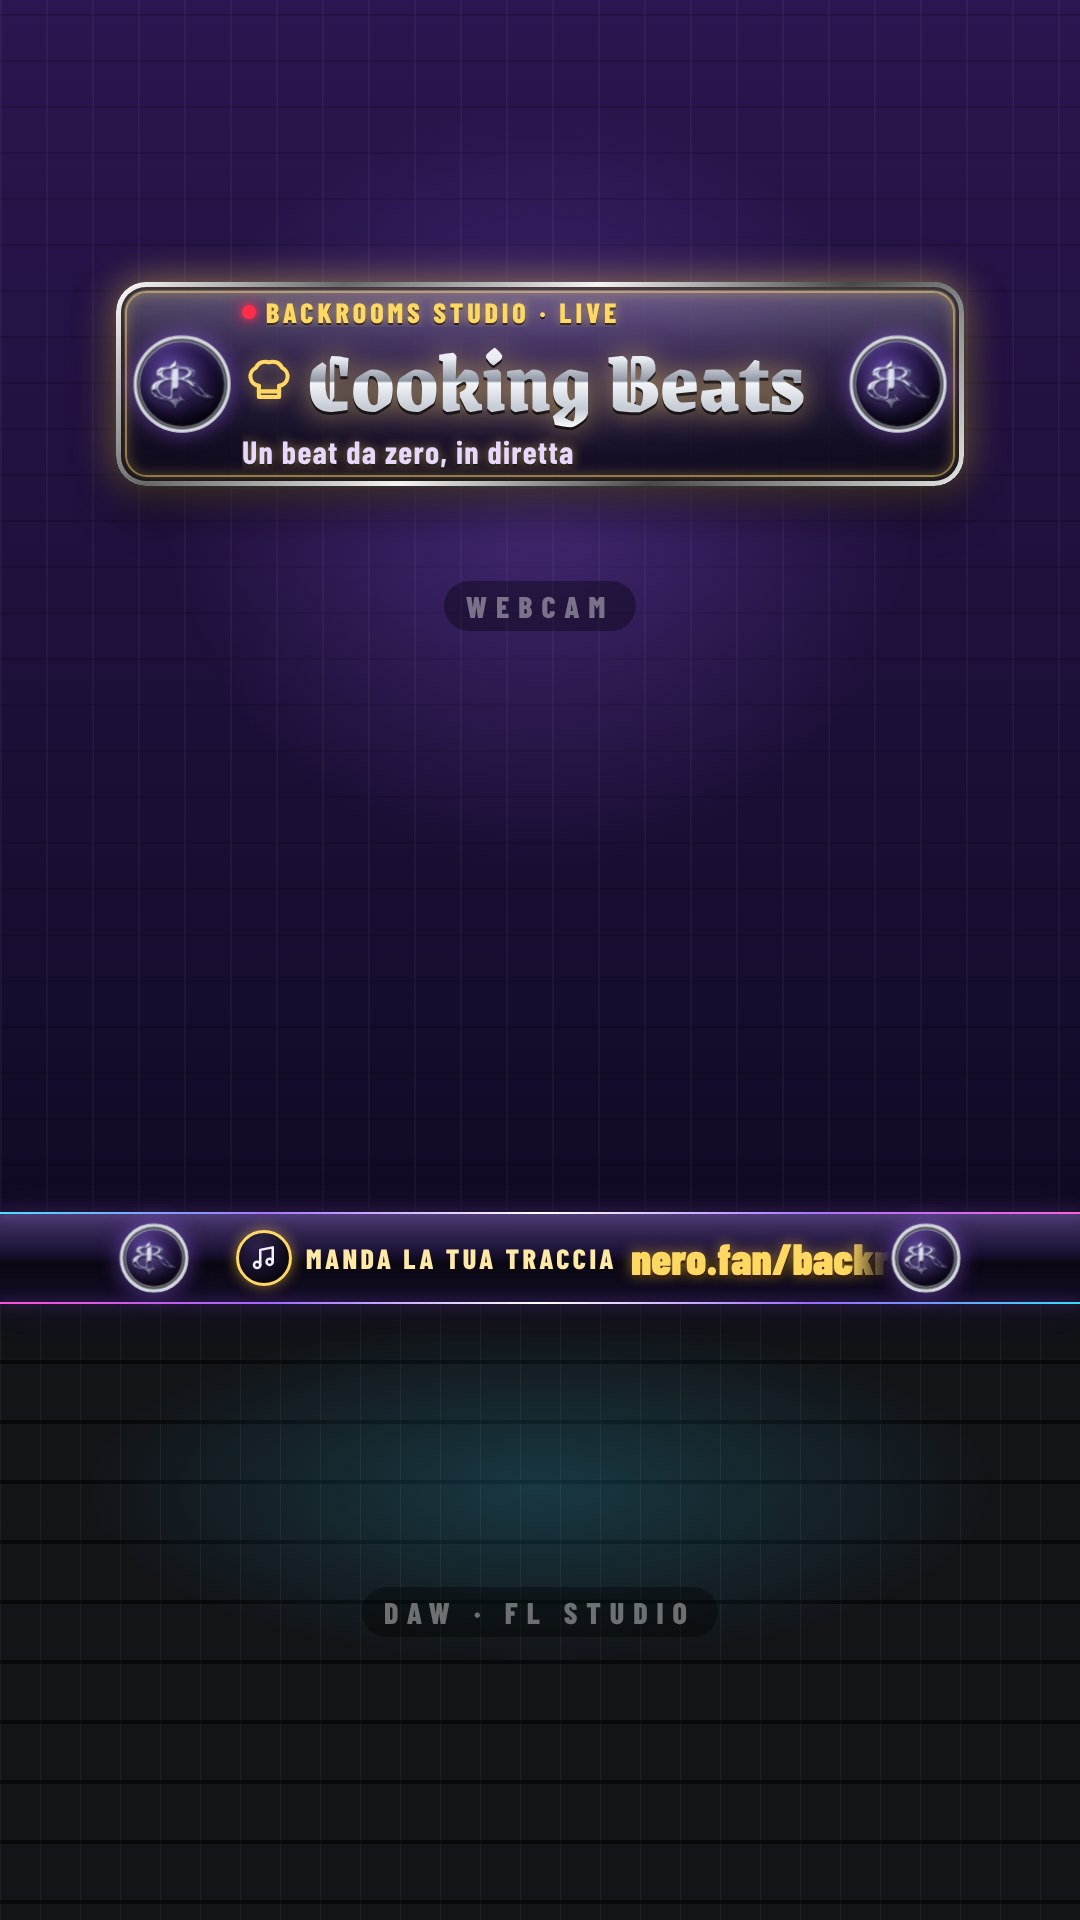
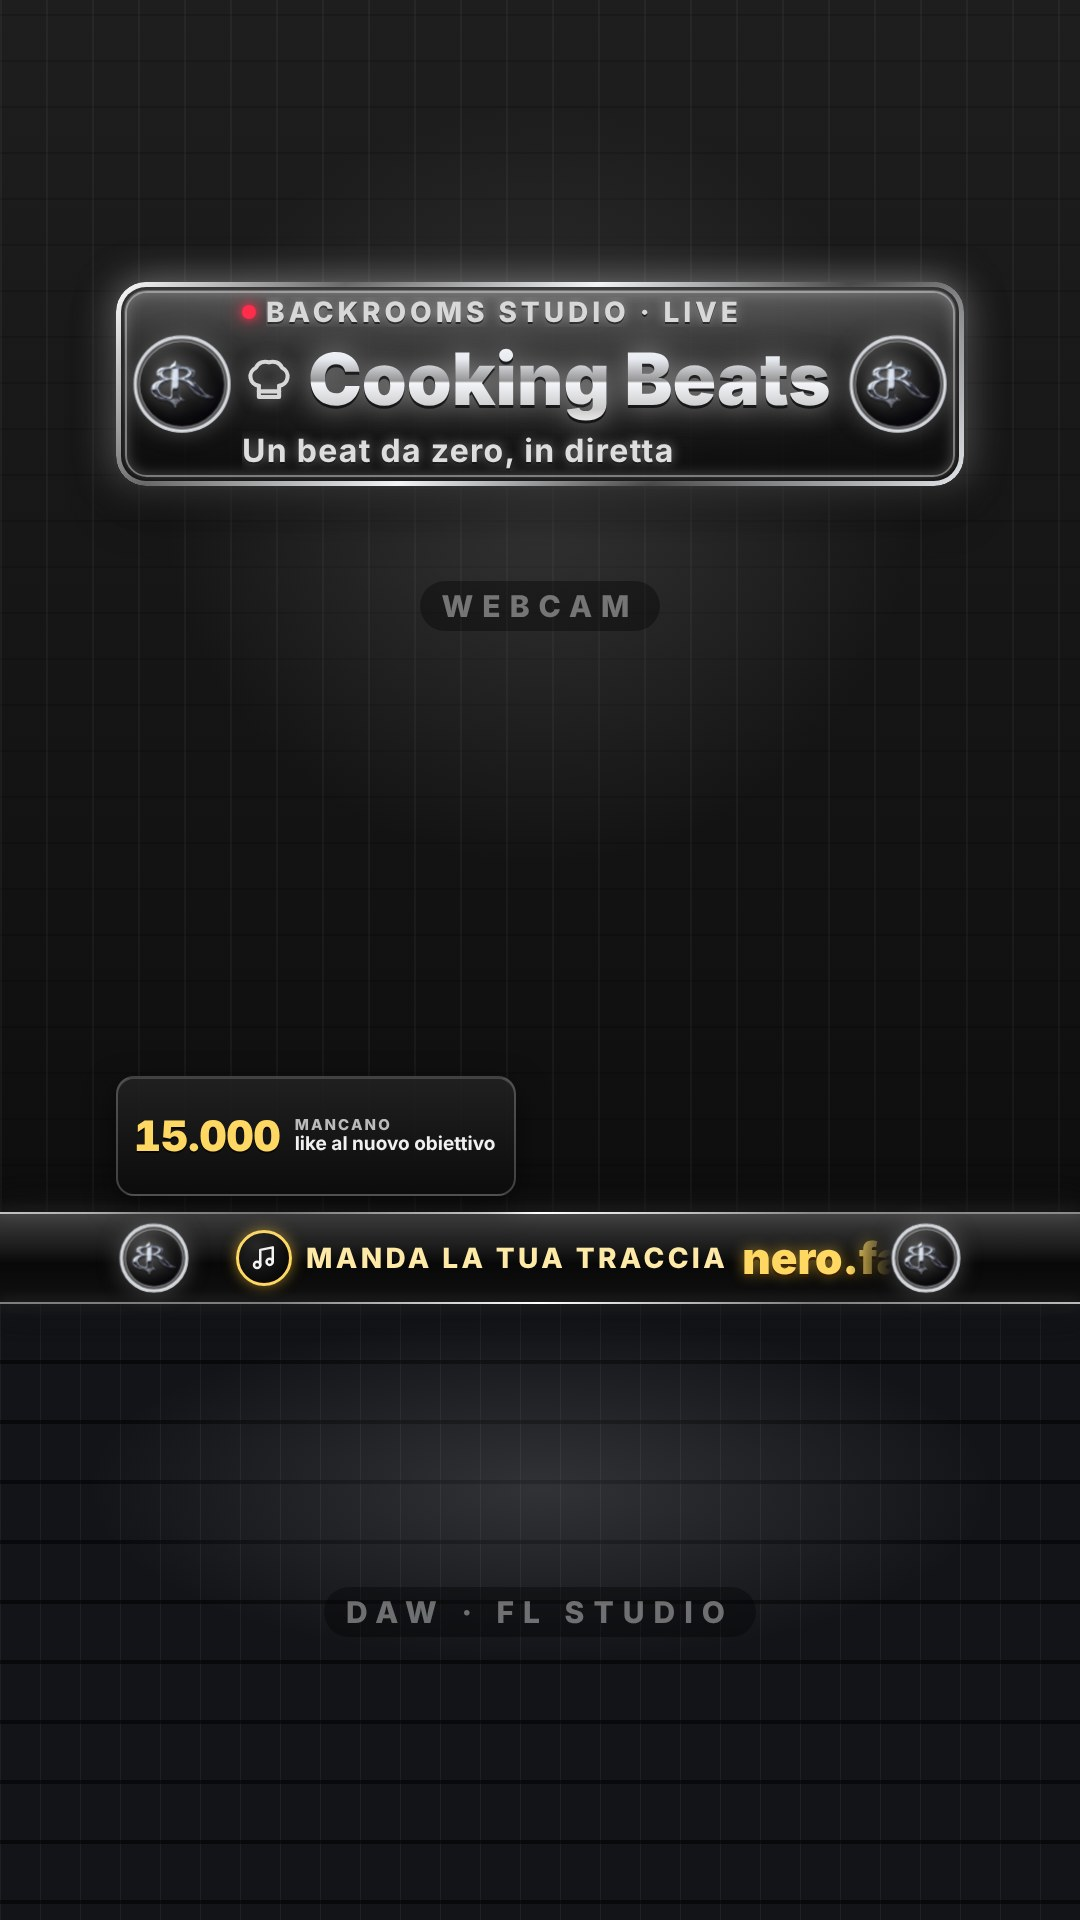
Goal: widget nei layout Drum, Studio Production, Podcast e Reaction [skip netlify]
Claude-Session: https://claude.ai/code/session_01KknJSv8vijv85bNpvfWr5a

diff --git a/overlay-live/public/js/goal-logica.js b/overlay-live/public/js/goal-logica.js
@@ -1,0 +1,76 @@
+// Goal Like e Follower: le parti pure (niente DOM) che usano la pagina e i test. Il calcolo dei «mancano» è lo stesso di lib/goal.mjs
+// (le pagine non importano da lib/): test/goal-logica.test.mjs li confronta.
+
+export const LARGHEZZA_GOAL = 400;
+export const ALTEZZA_GOAL = 120;
+
+// Un layout per pagina; per Podcast e Reaction anche l'orizzontale (la chiave finisce con «O»).
+export const POSIZIONI_GOAL = {
+  gara: { x: 564, y: 712, scala: 100 },
+  senzaPremio: { x: 116, y: 650, scala: 100 },
+  studio: { x: 116, y: 290, scala: 100 },
+  battle: { x: 116, y: 672, scala: 100 },
+  drum: { x: 116, y: 892, scala: 100 },
+  produzione: { x: 116, y: 1076, scala: 100 },
+  reaction: { x: 116, y: 1076, scala: 100 },
+  podcast: { x: 116, y: 960, scala: 100 },
+  podcastO: { x: 1400, y: 36, scala: 100 },
+  reactionO: { x: 1584, y: 40, scala: 75 },
+};
+
+export const chiaveGoal = (layout, orizzontale) => (orizzontale && (layout === "podcast" || layout === "reaction") ? `${layout}O` : layout);
+
+const migliaia = (n) => String(Math.round(n)).replace(/\B(?=(\d{3})+(?!\d))/g, ".");
+
+function obiettivoAttuale(totale, obiettivo, passo) {
+  const t = Number.isFinite(totale) && totale > 0 ? totale : 0;
+  if (t < obiettivo || !(passo > 0)) return obiettivo;
+  return t - (t % passo) + passo;
+}
+
+function mancano(totale, obiettivo, passo) {
+  if (typeof totale !== "number" || !Number.isFinite(totale) || totale < 0) return null;
+  const distanza = obiettivoAttuale(totale, obiettivo, passo) - totale;
+  return passo > 0 ? Math.max(1, distanza) : Math.max(0, distanza);
+}
+
+// Le parti di una riga: «Mancano» + «1.250» + «like» + «al nuovo obiettivo» (null con il totale sconosciuto).
+function parti(gruppo, unita) {
+  const n = mancano(gruppo?.totale, gruppo?.obiettivo, gruppo?.passo);
+  if (n === null) return null;
+  return { prefisso: n === 1 ? "Manca" : "Mancano", numero: migliaia(n), unita, suffisso: "al nuovo obiettivo" };
+}
+export const partiGoal = (goal) => ({ like: parti(goal?.like, "like"), follower: parti(goal?.follower, "follower") });
+
+const frase = (p) => (p ? `${p.prefisso} ${p.numero} ${p.unita} ${p.suffisso}` : null);
+export function testiGoal(goal) {
+  const p = partiGoal(goal);
+  return { like: frase(p.like), follower: frase(p.follower) };
+}
+
+// Dove sta il widget: la posizione salvata dalla regia (campo per campo) sopra quella di partenza, con la tela come limite.
+// Dà { x, y, scala } con la scala come moltiplicatore (1 = 100%).
+export function posizioneGoal(goal, chiave) {
+  const base = POSIZIONI_GOAL[chiave] ?? POSIZIONI_GOAL.gara;
+  const salvata = goal?.posizioni?.[chiave] ?? {};
+  const scegli = (campo) => (Number.isFinite(salvata[campo]) ? salvata[campo] : base[campo]);
+  const scala = Math.min(200, Math.max(60, scegli("scala"))) / 100;
+  const [W, H] = chiave.endsWith("O") ? [1920, 1080] : [1080, 1920];
+  const x = Math.min(Math.max(0, scegli("x")), W - LARGHEZZA_GOAL * scala);
+  const y = Math.min(Math.max(0, scegli("y")), H - ALTEZZA_GOAL * scala);
+  return { x, y, scala };
+}
+
+// Con il modo «comparsa» il Goal si vede `durataSecondi` dall'inizio dell'ultima comparsa (o da «Mostra ora» della regia); la
+// pagina fa partire una comparsa nuova ogni `ogniMinuti` (daFarComparire). Con «fisso» si vede finché è acceso.
+export function goalVisibile({ modo, durataSecondi }, acceso, ora, ultimaComparsaAlle, mostraOraAlle) {
+  if (!acceso) return false;
+  if (modo !== "comparsa") return true;
+  const inizio = Math.max(ultimaComparsaAlle ?? -Infinity, mostraOraAlle ?? -Infinity);
+  return ora - inizio < durataSecondi * 1000;
+}
+
+export function daFarComparire({ modo, ogniMinuti }, ora, ultimaComparsaAlle) {
+  if (modo !== "comparsa") return false;
+  return ultimaComparsaAlle === null || ora - ultimaComparsaAlle >= ogniMinuti * 60_000;
+}

diff --git a/overlay-live/public/js/goal.js b/overlay-live/public/js/goal.js
@@ -1,0 +1,80 @@
+// Widget Goal («Mancano 1.250 like al nuovo obiettivo» e «Mancano 12 follower al nuovo obiettivo»), uguale in tutti i layout:
+// una sezione di vetro 400×120 con due righe, messa sulla tela dalla posizione scelta in regia (o da quella di partenza del layout).
+// Con il modo «a comparsa» compare ogni `ogniMinuti` per `durataSecondi`; l'evento goalMostra (regia) lo fa comparire subito.
+import { nodo, rilancia } from "./pagina.js";
+import { partiGoal, posizioneGoal, goalVisibile, daFarComparire, LARGHEZZA_GOAL, ALTEZZA_GOAL } from "./goal-logica.js";
+
+function creaRiga(classe) {
+  const riga = nodo("div", `gl-riga ${classe}`);
+  const numero = nodo("b", "gl-numero");
+  const testi = nodo("span", "gl-testi");
+  const prefisso = nodo("span", "gl-prefisso");
+  const unita = nodo("span", "gl-unita");
+  testi.append(prefisso, unita);
+  riga.append(numero, testi);
+  return { riga, numero, prefisso, unita };
+}
+
+// palco: la tela; chiave: il layout (chiaveGoal); statico: senza animazioni (mockup). aggiorna(stato, eventi) a ogni stato.
+export function creaGoal({ palco, chiave, statico = false }) {
+  const radice = nodo("section", "gl fuori");
+  radice.dataset.parte = "goal";
+  const like = creaRiga("like");
+  const follower = creaRiga("follower");
+  radice.append(like.riga, follower.riga);
+  palco.append(radice);
+  radice.style.width = `${LARGHEZZA_GOAL}px`;
+  radice.style.height = `${ALTEZZA_GOAL}px`;
+
+  let stato = null;
+  let ultimaComparsaAlle = null;
+  let mostraOraAlle = null;
+  let primo = true;
+
+  function scrivi(riga, parti) {
+    riga.riga.hidden = !parti;
+    if (!parti) return;
+    if (riga.numero.textContent !== parti.numero) {
+      const eraVuoto = !riga.numero.textContent;
+      riga.numero.textContent = parti.numero;
+      if (!statico && !primo && !eraVuoto) rilancia(riga.numero, "scatto");
+    }
+    riga.prefisso.textContent = parti.prefisso;
+    riga.unita.textContent = `${parti.unita} ${parti.suffisso}`;
+    // Un numero lungo (1.250.000) o un testo largo rimpicciolisce tutta la riga, mai oltre il 60%.
+    riga.riga.style.setProperty("--gl-k", "1");
+    const larghezza = riga.riga.clientWidth;
+    const occupata = riga.numero.offsetWidth + Math.max(riga.prefisso.scrollWidth, riga.unita.scrollWidth); // senza i 14 px tra le due parti, che non scalano
+    if (larghezza > 0 && occupata + 14 > larghezza) riga.riga.style.setProperty("--gl-k", String(Math.max(0.6, ((larghezza - 14) / occupata) * 0.98)));
+  }
+
+  function disegnaVisibilita() {
+    if (!stato) return;
+    const ora = Date.now();
+    if (daFarComparire(stato.goal, ora, ultimaComparsaAlle) && stato.visibili.goal) ultimaComparsaAlle = ora;
+    const p = partiGoal(stato.goal);
+    const visibile = goalVisibile(stato.goal, stato.visibili.goal, ora, ultimaComparsaAlle, mostraOraAlle) && Boolean(p.like || p.follower);
+    radice.classList.toggle("fuori", !visibile);
+  }
+
+  setInterval(disegnaVisibilita, 1000);
+  // Con i font caricati le larghezze cambiano: si rifà la misura delle righe.
+  document.fonts?.ready.then(() => stato && (scrivi(like, partiGoal(stato.goal).like), scrivi(follower, partiGoal(stato.goal).follower)));
+
+  return {
+    radice,
+    aggiorna(s, eventi = []) {
+      stato = s;
+      if (eventi.some((e) => e.nome === "goalMostra")) mostraOraAlle = Date.now();
+      const { x, y, scala } = posizioneGoal(s.goal, chiave);
+      radice.style.left = `${x}px`;
+      radice.style.top = `${y}px`;
+      radice.style.setProperty("--gl-scala", String(scala));
+      const p = partiGoal(s.goal);
+      scrivi(like, p.like);
+      scrivi(follower, p.follower);
+      disegnaVisibilita();
+      primo = false;
+    },
+  };
+}

diff --git a/overlay-live/public/css/goal.css b/overlay-live/public/css/goal.css
@@ -1,0 +1,79 @@
+/* Widget Goal (public/js/goal.js): vetro neutro 400×120 con due righe, numero grande a sinistra e il testo a destra.
+   La posizione (left/top) e la scala (--gl-scala) le scrive la pagina; si ridimensiona dall'angolo in alto a sinistra. */
+.gl {
+  position: absolute;
+  z-index: 7;
+  box-sizing: border-box;
+  display: flex;
+  flex-direction: column;
+  justify-content: center;
+  gap: 6px;
+  padding: 8px 16px;
+  border-radius: 18px;
+  background: linear-gradient(180deg, rgba(34, 34, 34, 0.9), rgba(12, 12, 12, 0.92));
+  border: 2px solid rgba(255, 255, 255, 0.22);
+  box-shadow: 0 10px 30px rgba(0, 0, 0, 0.5), inset 0 1px 0 rgba(255, 255, 255, 0.16);
+  transform-origin: 0 0;
+  transform: scale(var(--gl-scala, 1));
+  transition: opacity 0.45s ease, transform 0.45s ease;
+  font-family: var(--font-dati);
+}
+.gl.fuori {
+  opacity: 0 !important;
+  transform: scale(var(--gl-scala, 1)) translateY(-18px) !important;
+}
+.gl-riga {
+  display: flex;
+  align-items: center;
+  gap: 14px;
+  height: 46px;
+  min-width: 0;
+  overflow: hidden;
+}
+.gl-riga[hidden] {
+  display: none;
+}
+.gl-numero {
+  flex: none;
+  min-width: 0;
+  font: 900 calc(42px * var(--gl-k, 1))/1 var(--font-dati);
+  font-variant-numeric: tabular-nums;
+  color: #fff;
+  text-align: left;
+  text-shadow: 0 2px 0 rgba(0, 0, 0, 0.6);
+}
+.gl-riga.like .gl-numero {
+  color: #ffd863; /* oro: i like */
+}
+.gl-riga.follower .gl-numero {
+  color: #fff;
+}
+.gl-testi {
+  min-width: 0;
+  display: flex;
+  flex-direction: column;
+  gap: 1px;
+}
+.gl-prefisso {
+  font: 800 calc(16px * var(--gl-k, 1))/1.1 var(--font-dati);
+  letter-spacing: 0.14em;
+  text-transform: uppercase;
+  color: #bbb;
+}
+.gl-unita {
+  font: 700 calc(20px * var(--gl-k, 1))/1.1 var(--font-dati);
+  color: #f0f0f0;
+  white-space: nowrap;
+}
+.gl-numero.scatto {
+  animation: gl-scatto 0.5s ease-out;
+}
+@keyframes gl-scatto {
+  0% { transform: scale(1.22); filter: brightness(1.8); }
+  100% { transform: none; filter: none; }
+}
+.statico .gl,
+.statico .gl-numero {
+  animation: none;
+  transition: none;
+}

diff --git a/overlay-live/public/js/drum.js b/overlay-live/public/js/drum.js
@@ -12,6 +12,8 @@ import { suona, volume } from "./suoni.js";
 import { suoniDrum, suonaIn } from "./eventi-sonori.js";
 import { avviaPagina, applicaTesti, adattaTesto, nodo, simbolo, logo, rilancia, ts, $, STATICO, parametri } from "./pagina.js";
 import { creaFascia } from "./fascia.js";
+import { creaGoal } from "./goal.js";
+import { chiaveGoal } from "./goal-logica.js";
 import { vociFascia, velocitaFascia } from "./formati-logica.js";
 import { formattaLike, etichettaLike, finestraScaletta, livelloVoce, titoloBrano } from "./drum-logica.js";
 import { creaClessidra } from "./drum-clessidra.js";
@@ -52,11 +54,14 @@ function lampoCornice() {
 }
 const equalizzatore = creaEqualizzatore($("#dr-eq"), { statico: STATICO, suColpo: lampoCornice });
 
+const goal = creaGoal({ palco, chiave: chiaveGoal("drum", false), statico: STATICO });
+
 collega({
   suStato(s, eventi) {
     const prima = stato;
     stato = s;
     disegna(s, eventi);
+    goal.aggiorna(s, eventi);
     suoni(prima, s, eventi);
     primoDisegno = false;
   },

diff --git a/overlay-live/public/js/doppio.js b/overlay-live/public/js/doppio.js
@@ -9,6 +9,8 @@ import { collega } from "./connessione.js";
 import { avviaPagina, applicaTesti, $, STATICO } from "./pagina.js";
 import { creaTarga } from "./targa.js";
 import { creaFascia } from "./fascia.js";
+import { creaGoal } from "./goal.js";
+import { chiaveGoal } from "./goal-logica.js";
 import { vociFascia, velocitaFascia, stileTitolo } from "./formati-logica.js";
 
 const FORMATO = document.body.dataset.formato; // "produzione" | "reaction"
@@ -27,12 +29,15 @@ const fascia = creaFascia({
   statico: STATICO,
 });
 
+const goal = creaGoal({ palco, chiave: chiaveGoal(FORMATO, orizzontale), statico: STATICO });
+
 collega({
-  suStato(s) {
+  suStato(s, eventi) {
     fascia.radice.classList.toggle("fuori", !s.visibili[BARRA]);
     fascia.aggiorna(s);
     applicaTesti(palco, s[FORMATO].testi);
     disegnaTitolo(s);
+    goal.aggiorna(s, eventi);
     primoDisegno = false;
   },
 });

diff --git a/overlay-live/public/js/podcast.js b/overlay-live/public/js/podcast.js
@@ -8,6 +8,8 @@ import { collega } from "./connessione.js";
 import { avviaPagina, applicaTesti, adattaTesto, nodo, simbolo, ts, $, STATICO } from "./pagina.js";
 import { creaTarga } from "./targa.js";
 import { creaFascia } from "./fascia.js";
+import { creaGoal } from "./goal.js";
+import { chiaveGoal } from "./goal-logica.js";
 import { vociFascia, velocitaFascia, statiTematiche } from "./formati-logica.js";
 
 const { palco, orizzontale } = avviaPagina({ orizzontaleAmmesso: true });
@@ -24,9 +26,12 @@ const fascia = creaFascia({
   statico: STATICO,
 });
 
+const goal = creaGoal({ palco, chiave: chiaveGoal("podcast", orizzontale), statico: STATICO });
+
 collega({
-  suStato(s) {
+  suStato(s, eventi) {
     ultimo = s;
+    goal.aggiorna(s, eventi);
     fascia.radice.classList.toggle("fuori", !s.visibili.poBarra);
     fascia.aggiorna(s);
     applicaTesti(palco, s.podcast.testi);

diff --git a/overlay-live/public/produzione.html b/overlay-live/public/produzione.html
@@ -12,6 +12,7 @@
   <link rel="stylesheet" href="/css/overlay.css">
   <link rel="stylesheet" href="/css/senza-premio.css">
   <link rel="stylesheet" href="/css/formati.css">
+  <link rel="stylesheet" href="/css/goal.css">
   <link rel="stylesheet" href="/css/doppio.css">
 </head>
 <body class="fm produzione" data-formato="produzione">

diff --git a/overlay-live/public/reaction.html b/overlay-live/public/reaction.html
@@ -12,6 +12,7 @@
   <link rel="stylesheet" href="/css/overlay.css">
   <link rel="stylesheet" href="/css/senza-premio.css">
   <link rel="stylesheet" href="/css/formati.css">
+  <link rel="stylesheet" href="/css/goal.css">
   <link rel="stylesheet" href="/css/doppio.css">
 </head>
 <body class="fm reaction" data-formato="reaction">

diff --git a/overlay-live/public/podcast.html b/overlay-live/public/podcast.html
@@ -12,6 +12,7 @@
   <link rel="stylesheet" href="/css/overlay.css">
   <link rel="stylesheet" href="/css/senza-premio.css">
   <link rel="stylesheet" href="/css/formati.css">
+  <link rel="stylesheet" href="/css/goal.css">
   <link rel="stylesheet" href="/css/podcast.css">
 </head>
 <body class="fm podcast" data-formato="podcast">

diff --git a/overlay-live/public/drum.html b/overlay-live/public/drum.html
@@ -12,6 +12,7 @@
   <link rel="stylesheet" href="/css/overlay.css">
   <link rel="stylesheet" href="/css/senza-premio.css">
   <link rel="stylesheet" href="/css/formati.css">
+  <link rel="stylesheet" href="/css/goal.css">
   <link rel="stylesheet" href="/css/drum.css">
 </head>
 <body class="fm drum" data-formato="drum">
